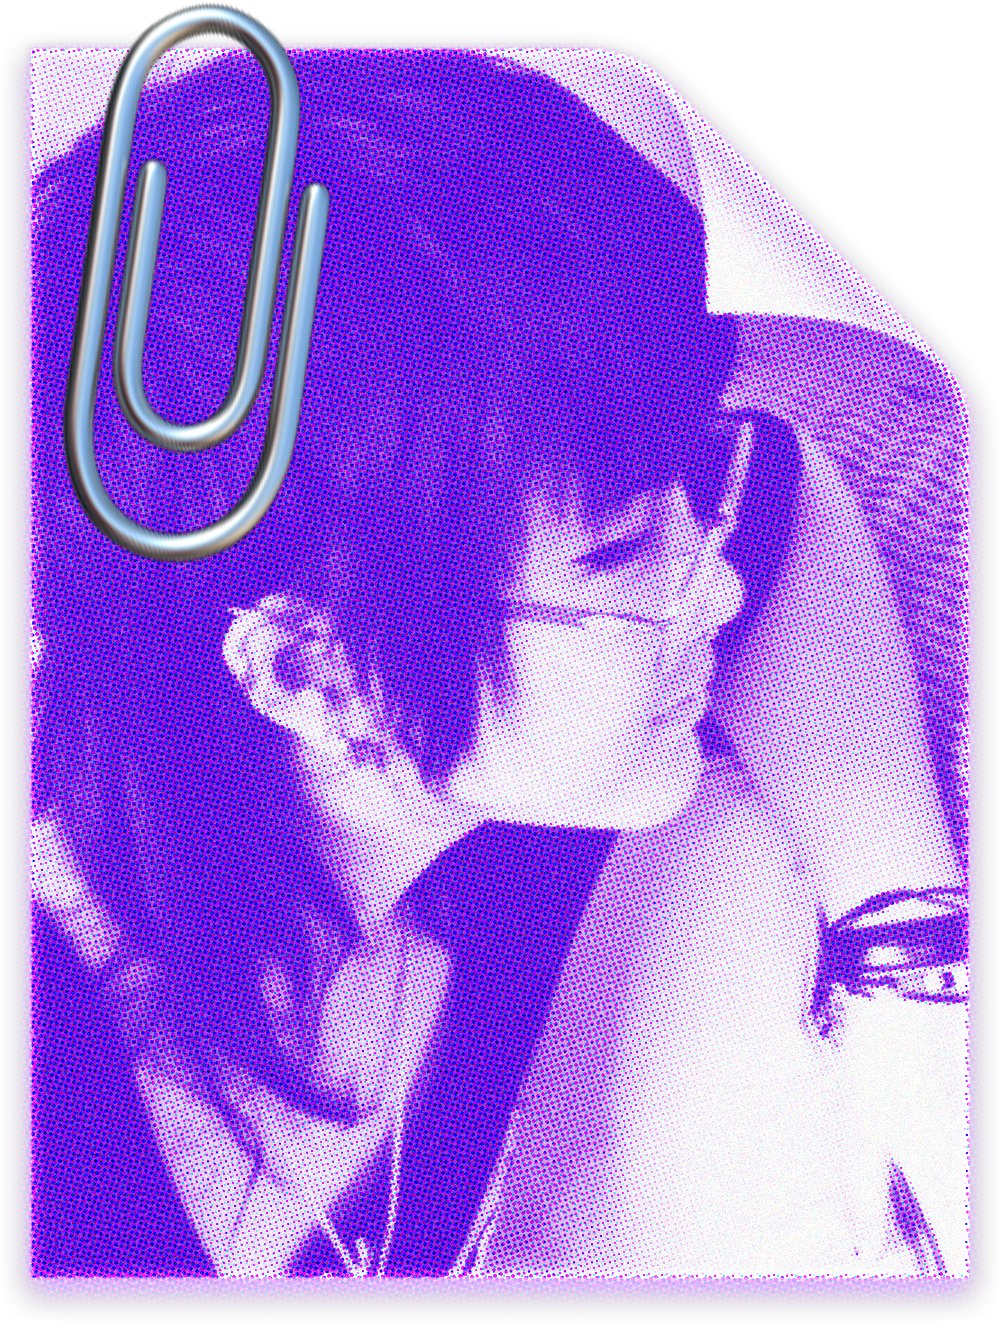
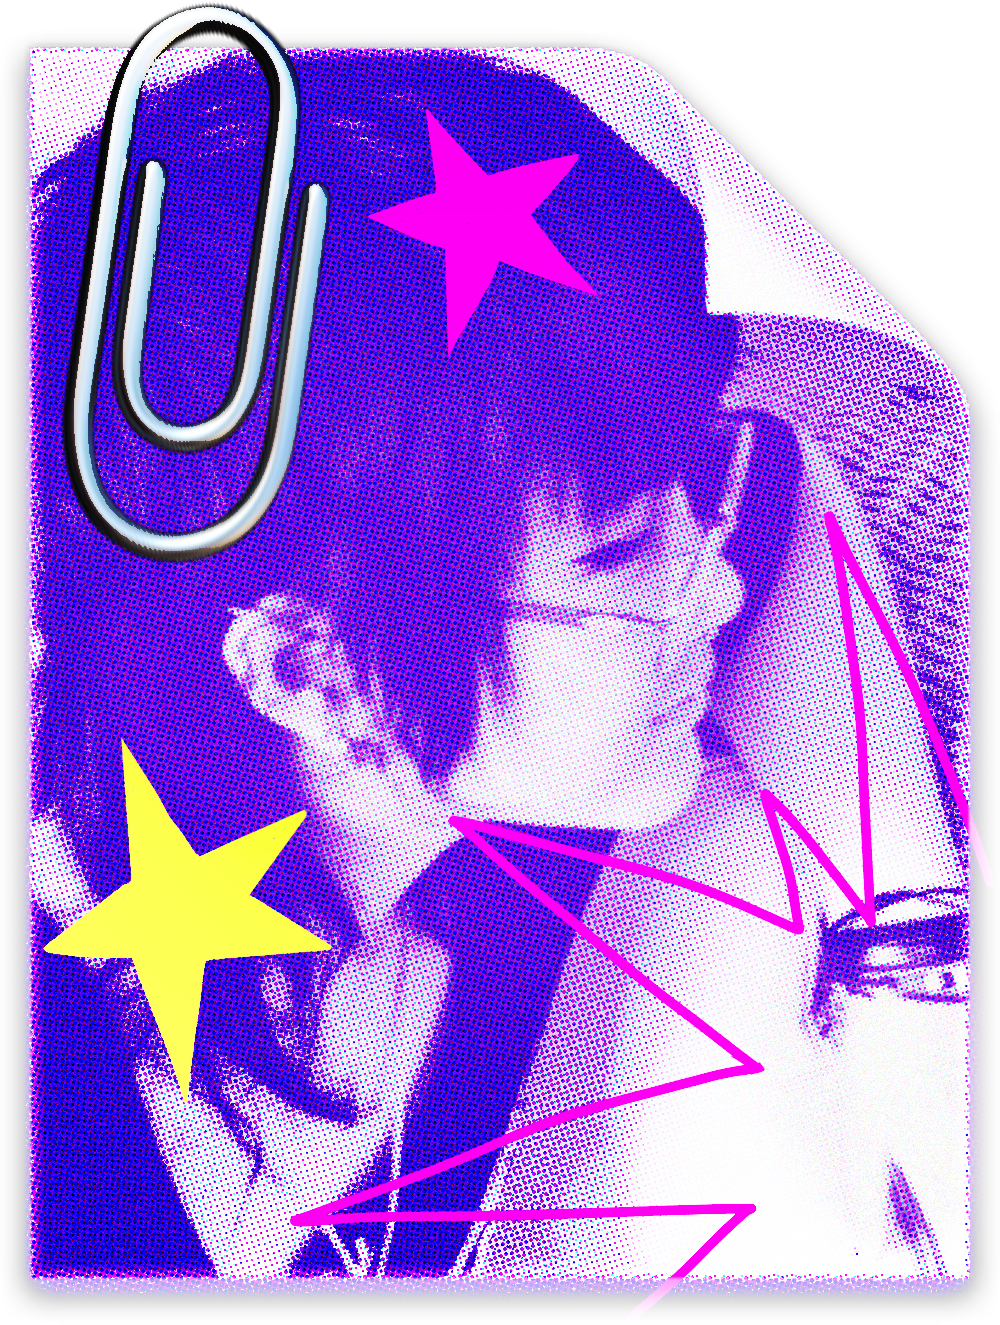
meo

diff --git a/about.html b/about.html
@@ -219,23 +219,23 @@ var changeText = document.getElementById("blur")
         <div class="portrait_infor fade-up">
 
           <div class="portrait fade-up">
-            <img src="img/portrait.webp" loading="lazy" id="portrait" class="fade-up">
+            <img src="img/portrait.webp" id="portrait" class="fade-up">
             <h2>Nhat Minh<br><span class="italic fade-up">/visual artist/</span></h2>
           </div>
 
           <div class="infor fade-up">
             <h3>
-              Huynh Truc Nhat Minh is a multimedia visual artist based in Ho Chi Minh City, Vietnam. Their practice
+              ★ Huynh Truc Nhat Minh is a multimedia visual artist based in Ho Chi Minh City, Vietnam. Their practice
               draws strong inspiration from net.art—a digital art form that emerged in the 1990s using the internet as
               both medium and subject—and the emotional presence of computers as cultural artifacts. Nhat Minh is also
               deeply interested in conceptual art, especially works where the audience takes an active role in the
               creative process rather than remaining passive observers.
               <br>
-              <br>Their work combines playful experimentation with cultural reflection, often exploring the
+              <br>★ Their work combines playful experimentation with cultural reflection, often exploring the
               Vina-Manifesto—an ongoing approach that incorporates Vietnamese culture and everyday life to inform and
               expand their artistic concepts.
               <br>
-              <br> Currently a second-year student at the Royal Melbourne Institute of Technology, Nhat Minh continues
+              <br>★ Currently a second-year student at the Royal Melbourne Institute of Technology, Nhat Minh continues
               to experiment across multiple platforms and mediums, embracing the fluid boundaries between digital and
               physical forms.
             </h3>
@@ -255,7 +255,7 @@ var changeText = document.getElementById("blur")
 
 <div class="panel" id="panel" data-color="violet">
   <section class="grid_abt fade-up">
-    <img src="img/snail.gif" loading="lazy" id="face"  class="fade-up">
+    <img src="img/snail.webp" id="face"  class="fade-up">
     <div id="intro_logos">
       <div id="introduction"  class="fade-up">
         <h2>★ education</h2>
@@ -349,6 +349,8 @@ var changeText = document.getElementById("blur")
   </ul>
 </div>
 </footer>
+
+
 
 </body>
 </html>

diff --git a/index.html b/index.html
@@ -306,6 +306,44 @@
         <img src="img/cows.gif" id="idk">
       </div>
 
+<img src="img/meo.png" id="flyingObject" alt="flying" />
+
+<script>
+  const flying = document.getElementById("flyingObject");
+
+  let posX = Math.random() * window.innerWidth;
+  let posY = Math.random() * window.innerHeight;
+  let velX = 2 + Math.random() * 2;
+  let velY = 2 + Math.random() * 2;
+  let angle = 0;
+  let spinBoost = 0;
+
+  function moveFlyingObject() {
+    posX += velX;
+    posY += velY;
+
+    // Bounce + tăng spin khi va chạm
+    if (posX <= 0 || posX + flying.offsetWidth >= window.innerWidth) {
+      velX *= -1;
+      spinBoost += 15; // Xoay mạnh hơn
+    }
+    if (posY <= 0 || posY + flying.offsetHeight >= window.innerHeight) {
+      velY *= -1;
+      spinBoost += 15;
+    }
+
+    // Giảm spin boost dần về 0
+    if (spinBoost > 0) spinBoost *= 0.95;
+
+    angle += 2 + spinBoost;
+
+    flying.style.transform = `translate(${posX}px, ${posY}px) rotate(${angle}deg)`;
+
+    requestAnimationFrame(moveFlyingObject);
+  }
+
+  moveFlyingObject();
+</script>
 
       
 </body>

diff --git a/style.css b/style.css
@@ -2763,7 +2763,7 @@ iframe {
         inset 0 -2px 3px rgba(0, 0, 0, 0.014);
     border-radius: 10vw;
     text-shadow: 0 1px 0 #ff00d9;
-    
+
     padding: 0.2vw 1vw;
 
 
@@ -3029,5 +3029,15 @@ button.next {
 
     right: 9vw;
     top: 9vw;
+}
+
+#flyingObject {
+  position: fixed;
+  top: 0;
+  left: 0;
+  z-index: 9999;
+  pointer-events: none;
+  transform: translate(0, 0) rotate(0deg);
+  transition: transform 0.1s linear;
 }
 
